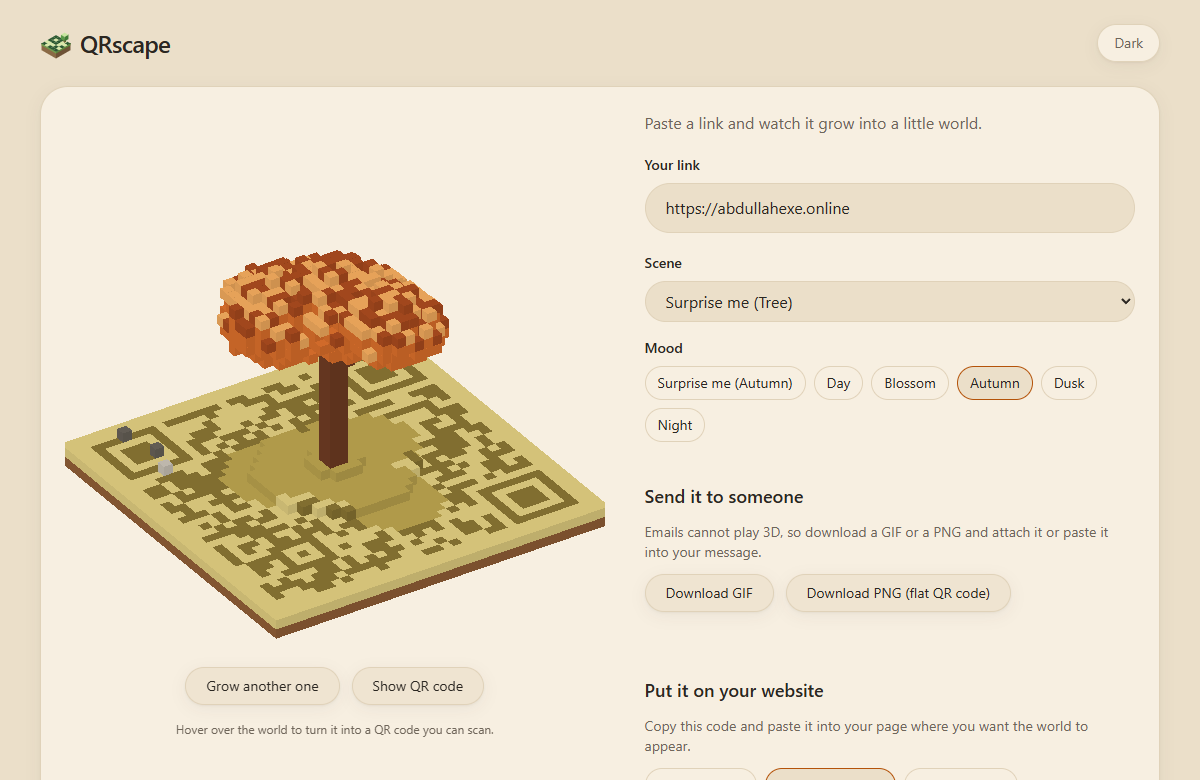
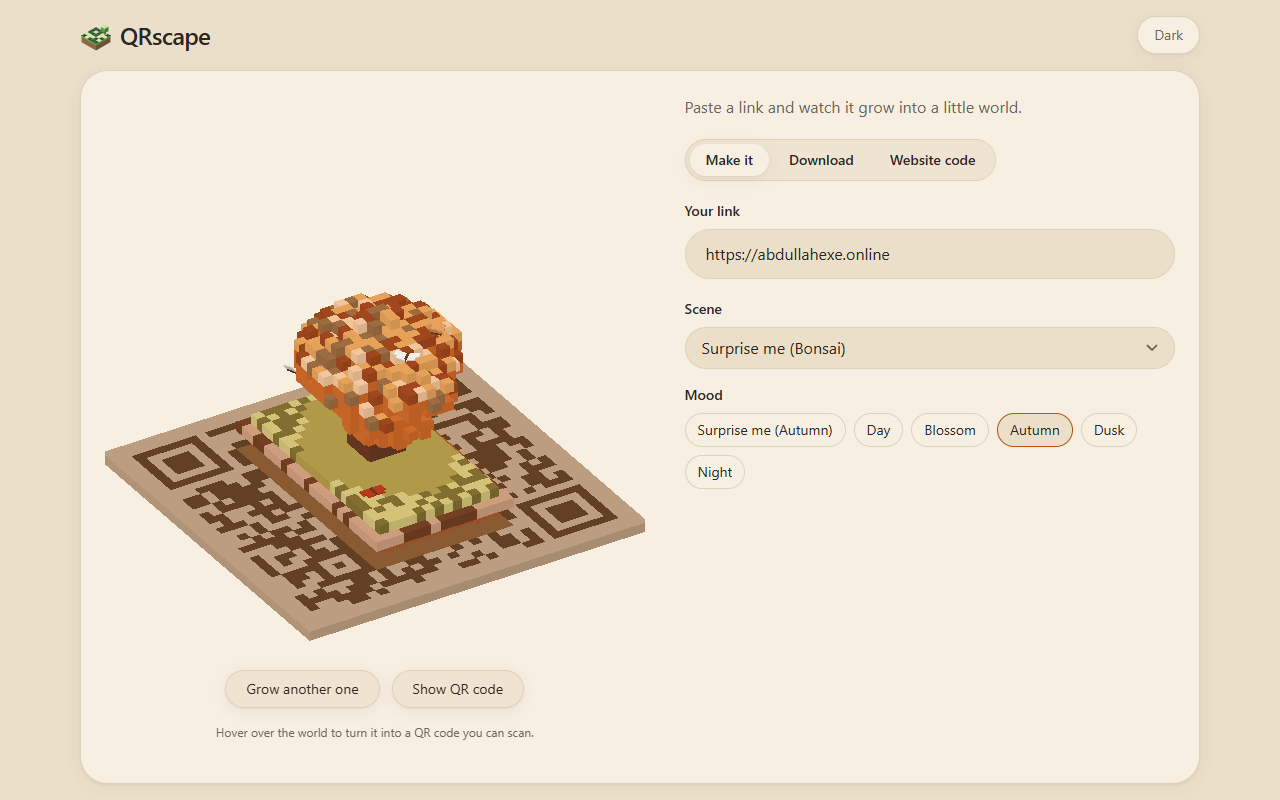
feat: 30 worlds with creatures, search and tabs (v0.2.0)
Release notes, README (30 scenes, creatures, tabs, any embed size, light by
default), changelog, roadmap and handover. New hero, phone and scene sheet
screenshots; the hero is now one full laptop screen.

diff --git a/README.md b/README.md
@@ -4,35 +4,40 @@
 
 <p align="center"><b>Turn any link into a tiny 8-bit world that is also a QR code.</b></p>
 
-Paste a link and QRscape grows a calm voxel world from it: a tree, a bonsai, a koi pond, a ramen stall and 11 more.
+Paste a link and QRscape grows a calm voxel world from it: a willow, a bonsai, a koi pond, a Venice canal and 26 more.
 Look at it from the side and it is a little world. Look straight down and it is a QR code you can scan. Every
 link grows its own world, like a seed in Minecraft. Send it as a GIF, or paste one line of code into your website.
 Free and private: it runs entirely in your browser. No account, no server, nothing stored.
 
-**Live:** https://qrscape-ten.vercel.app · **Version:** 0.1.0
+**Live:** https://qrscape-ten.vercel.app · **Version:** 0.2.0
 
 [![CI](https://github.com/4bdulllahh/qrscape/actions/workflows/ci.yml/badge.svg)](https://github.com/4bdulllahh/qrscape/actions/workflows/ci.yml)
 [![Live site](https://img.shields.io/badge/live-qrscape--ten.vercel.app-5a9a48.svg)](https://qrscape-ten.vercel.app)
 [![License: MIT](https://img.shields.io/badge/license-MIT-5a9a48.svg)](LICENSE)
 
-<p align="center"><img src="docs/screenshots/hero.png" alt="QRscape on a laptop: an autumn tree world on the left, the link box, scene and mood choices and download buttons on the right" width="860" /></p>
+<p align="center"><img src="docs/screenshots/hero.png" alt="QRscape on a laptop: an autumn bonsai world on the left, the link box, scene and mood choices and download buttons on the right" width="860" /></p>
 
 > The links in these screenshots are examples.
 
 ## Features
 
 - **Every link grows its own world.** The link is turned into a number (a seed) that picks the scene, the mood and every detail: branch shapes, peak heights, where the fish swim. The same link always grows the same world.
-- **15 calm scenes.** Tree, bonsai, mountains, fish bowl, zen garden, cherry blossom, koi pond, bamboo grove, torii gate, tea house, coffee shop, tofu shop, ramen stall, lighthouse island and cactus pot.
+- **30 calm scenes, easy to find.** Search the list or browse two groups.
+  - **Nature:** tree, bonsai, mountains, fish bowl, zen garden, cherry blossom, koi pond, bamboo grove, lighthouse island, cactus pot, pine, baobab, palm island, weeping willow, tree fern, waterfall, hot spring, rice terraces, Mount Fuji and lily pond.
+  - **City:** torii gate, tea house, coffee shop, tofu shop, ramen stall, Kyoto pagoda, lantern street, Chongqing hillside, Venice canal and Santorini.
+- **Longer links, more detail.** A longer link makes a bigger QR code, and the world fills it with more trees, houses and boats.
+- **Little creatures.** Butterflies, birds, dragonflies, petals, fish and steam move through the world, then fade out before the QR code appears.
 - **5 moods.** Day, Blossom, Autumn, Dusk and Night. Let the link choose, or pick your own.
 - **Grow another one.** Not your favourite? Grow a new world from the same link.
 - **A QR code hiding in plain sight.** Hover over the world and it turns smoothly into a flat QR code. Every scene in every mood is checked to scan.
 - **For email and chat.** Download a looping GIF (the world, then the QR code) or a flat PNG of the QR code in the world's colours.
-- **For your website.** Copy one short piece of code, in small, medium or large. On your page the world shows for 5 seconds, then the QR code for 2.5 seconds, and hovering shows the QR code.
-- **Light and dark.** A calm sand and navy look that follows your system.
+- **For your website.** Copy one short piece of code, in small, medium, large or any size from 80 to 1200 pixels. On your page the world shows for 5 seconds, then the QR code for 2.5 seconds, and hovering shows the QR code.
+- **One screen on laptops.** Three tabs (Make it, Download, Website code) keep everything in view.
+- **Light and dark.** A calm sand look by default, with a Dark button for navy.
 
-| All 15 scenes (Night mood)                                      | On a phone                                                          |
-| --------------------------------------------------------------- | ------------------------------------------------------------------- |
-| ![All 15 scenes in the Night mood](docs/screenshots/scenes.png) | ![QRscape on a phone in dark mode](docs/screenshots/phone-dark.png) |
+| All 30 scenes                                 | On a phone                                                          |
+| --------------------------------------------- | ------------------------------------------------------------------- |
+| ![All 30 scenes](docs/screenshots/scenes.png) | ![QRscape on a phone in dark mode](docs/screenshots/phone-dark.png) |
 
 ## Getting started
 

diff --git a/handover.md b/handover.md
@@ -17,7 +17,7 @@ GIF/PNG (email) or a copy-paste embed for websites. No backend, no accounts, not
 | Live site | https://qrscape-ten.vercel.app (Vercel, deploys itself on push to `main`) |
 | Embed     | https://qrscape-ten.vercel.app/qrscape.js (same deploy)                   |
 | CI        | `.github/workflows/ci.yml`, runs `npm run check` on push                  |
-| Version   | 0.1.0 (tag `v0.1.0`), in `package.json` only                              |
+| Version   | 0.2.0 (tag `v0.2.0`), in `package.json` only                              |
 
 ## Starting a session
 
@@ -137,7 +137,7 @@ another origin, axe clean. The user confirmed it works, including on their phone
 
 ## Current state
 
-Plan v0.2.0 (approved 2026-11-12, 22 milestones). Done: M1 to M21 (30 scenes).
+Plan v0.2.0 (approved 2026-11-12, 22 milestones). Done: all 22, released as v0.2.0 (30 scenes).
 
 | #   | Milestone                                                                                              | Size |
 | --- | ------------------------------------------------------------------------------------------------------ | ---- |
@@ -168,5 +168,5 @@ Decisions for this plan: reworked scenes may change already pasted embeds (user 
 Each scene milestone adds its own creatures. New scenes get `group: 'nature' | 'city'` in their `SceneDef`.
 The scene picker is a custom listbox (`src/ui/ScenePicker.tsx`); scripts drive it through `scripts/picker.mjs`.
 
-- **Next:** M22 release (creature kind `steam` rises off water; `conifer` is exported from pine.ts) (new scenes go at the END of SCENES, with group, creatures and a `scene_<id>` string). `parasol(grid, x, y, z, h, r, material)` in shapes.ts. `lantern(grid, x, y, z)` in shapes.ts draws a stone lantern (used by zen garden and koi pond). Creature kinds now: butterfly, bird, dragonfly, petal (falls from `petal` tops), fish (circles on `water` tops). `scripts/_rolls.mjs` (local, git-excluded) tiles rerolls of one scene; recreate it from M8 if missing. tree.icqr reference: a tall airy tree about 1.3x the ground width, many leaf clusters on thin branches, grass border. `growTree` has a `reach` option for wide crowns. Creatures: `src/domain/creatures.ts` places them (own rng), `SceneDef.creatures` picks kinds, they travel in `ColoredVoxels.creatures`, `renderer.ts` draws them (PARTS, FLIGHT) and fades them early in the morph, so site, GIF and embed all show them. The GIF clock jumps back during the QR hold so the loop is seamless.
+- **Next:** plan finished, ask the user what's next. Notes: (creature kind `steam` rises off water; `conifer` is exported from pine.ts) (new scenes go at the END of SCENES, with group, creatures and a `scene_<id>` string). `parasol(grid, x, y, z, h, r, material)` in shapes.ts. `lantern(grid, x, y, z)` in shapes.ts draws a stone lantern (used by zen garden and koi pond). Creature kinds now: butterfly, bird, dragonfly, petal (falls from `petal` tops), fish (circles on `water` tops). `scripts/_rolls.mjs` (local, git-excluded) tiles rerolls of one scene; recreate it from M8 if missing. tree.icqr reference: a tall airy tree about 1.3x the ground width, many leaf clusters on thin branches, grass border. `growTree` has a `reach` option for wide crowns. Creatures: `src/domain/creatures.ts` places them (own rng), `SceneDef.creatures` picks kinds, they travel in `ColoredVoxels.creatures`, `renderer.ts` draws them (PARTS, FLIGHT) and fades them early in the morph, so site, GIF and embed all show them. The GIF clock jumps back during the QR hold so the loop is seamless.
 - **Known issues:** more than about 16 embeds on one page fail (browser limit on WebGL canvases). No `.ico` favicon.

diff --git a/docs/releases/v0.2.0.md b/docs/releases/v0.2.0.md
@@ -1,0 +1,30 @@
+## QRscape 0.2.0: 30 worlds, with life in them
+
+Twice as many worlds, from a weeping willow to a Venice canal, and little creatures now live in them. The page also fits on one laptop screen.
+
+### New worlds
+
+- **15 new scenes.** Pine, baobab, palm island, weeping willow, tree fern, waterfall, hot spring, rice terraces, Mount Fuji, lily pond, Kyoto pagoda, lantern street, Chongqing hillside, Venice canal and Santorini.
+- **Nature and City groups.** The scene list is split into two groups, and you can type to search it.
+- **Longer links, more detail.** A longer link makes a bigger QR code, and the world fills it with more trees, houses, boats and stones.
+
+### Life in the world
+
+- **Little creatures.** Butterflies, birds, dragonflies, falling petals, swimming fish and rising steam, picked to suit each scene.
+- **Out of the way when it counts.** Creatures fade out before the world turns into a QR code, so it still scans. They also show in the GIF and on your website.
+- **Calm when asked.** Creatures hold still if your device asks for less motion.
+
+### Better scenes
+
+- **Every old scene redone.** A bushier tree, four kinds of bonsai (pine, maple, juniper, azalea), a chunkier cherry blossom, a natural koi pond, a panda in the bamboo, tables outside the tea house, and more.
+
+### Easier to use
+
+- **One screen on laptops.** Three tabs (Make it, Download, Website code) keep everything in view without scrolling.
+- **Any size for your website.** Pick small, medium or large, or type any size from 80 to 1200 pixels.
+- **Light by default.** The site opens in the light look, with a Dark button at the top.
+
+### Fixed
+
+- **Scene list arrow.** The arrow on the scene list sits in the right place.
+- **Big lighthouse.** The lighthouse island draws properly on long links.

diff --git a/CLAUDE.md b/CLAUDE.md
@@ -4,7 +4,7 @@ A free website that turns any link into a QR code drawn as a calm 8-bit (voxel) 
 bonsai, mountains, fish bowls, coffee shops and more. Seen from a corner it is a little world; seen straight
 from above it is a scannable QR code. People share it as a GIF or PNG (email) or paste an embed code into
 their own website. Inspired by tree.icqr.com (one tree only). Vite + React + plain three.js, no backend,
-no accounts. Portfolio piece, v0.1.0 live at https://qrscape-ten.vercel.app.
+no accounts. Portfolio piece, v0.2.0 live at https://qrscape-ten.vercel.app.
 
 **Read [handover.md](handover.md) before changing anything.** It has the code map, recipes (add a scene, material,
 mood, release), the browser check scripts and where the work stopped.
@@ -19,7 +19,7 @@ mood, release), the browser check scripts and where the work stopped.
 | Themes    | Light + dark (`.dark` class on `<html>`, tokens in `src/index.css`, typencut's sand/navy look)    |
 | Design    | Zen and calm like typencut. taste-skill for art direction, impeccable for the polish pass         |
 | Shipping  | Vercel (static). The embed script is served from the same site                                    |
-| Version   | 0.1.0, stored in `package.json`                                                                   |
+| Version   | 0.2.0, stored in `package.json`                                                                   |
 | Skills    | ponytail, i-have-adhd, model-router, taste-skill, web-asset-generator, impeccable                 |
 | Repo      | https://github.com/4bdulllahh/qrscape                                                             |
 

diff --git a/docs/roadmap.md b/docs/roadmap.md
@@ -4,7 +4,6 @@
 
 | Item                                         | Why                                       | Size |
 | -------------------------------------------- | ----------------------------------------- | ---- |
-| More scenes after the first 15               | Variety keeps people sharing              | M    |
 | More languages (Arabic first, right to left) | Wider audience; strings already use `t()` | M    |
 
 ## Ideas (not decided)
@@ -22,3 +21,7 @@
 | GIF and PNG downloads                                   | v0.1.0  |
 | Website embed code with the scenery and QR loop         | v0.1.0  |
 | Light and dark themes, logo, icons, share image         | v0.1.0  |
+| 15 more scenes (30 in all), every first scene reworked  | v0.2.0  |
+| Animated creatures that hide for the QR code            | v0.2.0  |
+| Scene search with Nature / City groups, tabs layout     | v0.2.0  |
+| Any embed size, details that grow with the link         | v0.2.0  |

diff --git a/CHANGELOG.md b/CHANGELOG.md
@@ -1,5 +1,16 @@
 # Changelog
 
+## 0.2.0 (2026-11-12)
+
+- 15 new scenes (30 in all): pine, baobab, palm island, weeping willow, tree fern, waterfall, hot spring, rice terraces, Mount Fuji, lily pond, Kyoto pagoda, lantern street, Chongqing hillside, Venice canal, Santorini.
+- Every first-release scene reworked with more detail. Already pasted embeds of those scenes look different.
+- Animated creatures (butterflies, birds, dragonflies, petals, fish, steam) on the site, GIF and embed, hidden in QR frames.
+- Details grow with the QR size, so longer links get fuller worlds.
+- Scene picker with search and Nature / City groups.
+- Tabs (Make it, Download, Website code); the page fits one laptop screen.
+- Embed size presets plus any size from 80 to 1200 px.
+- Light theme by default.
+
 ## 0.1.0 (2026-11-11)
 
 First release.
